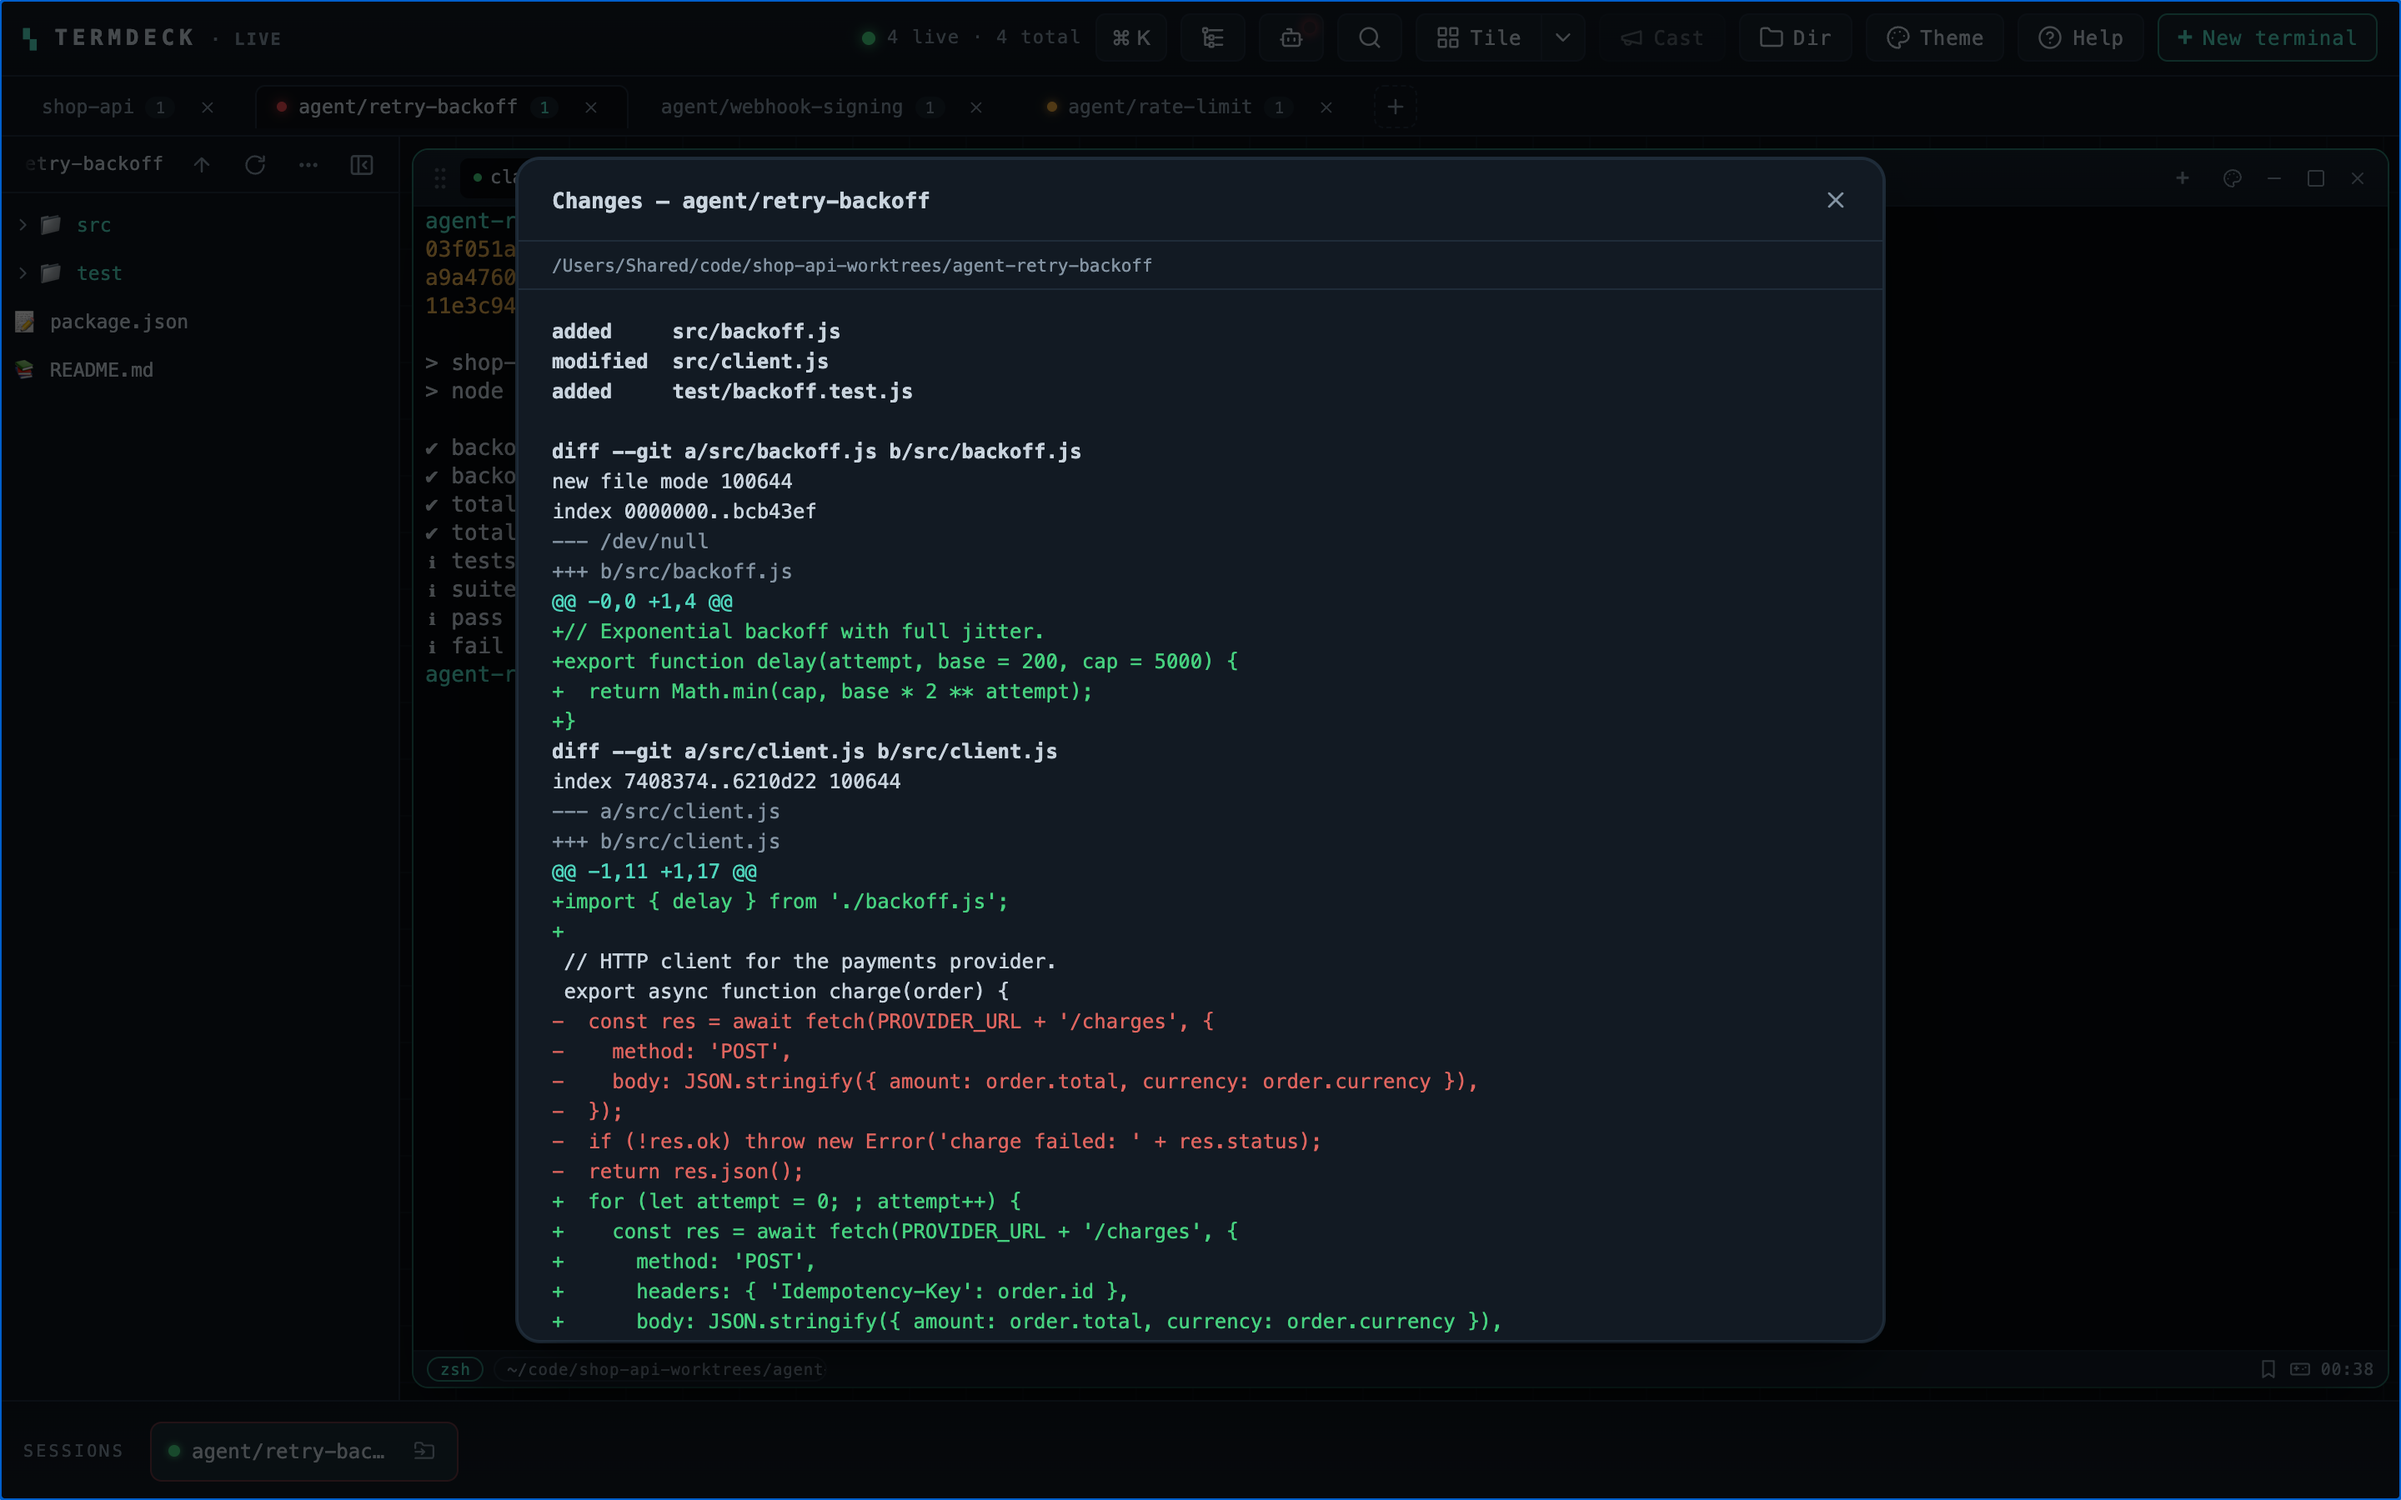
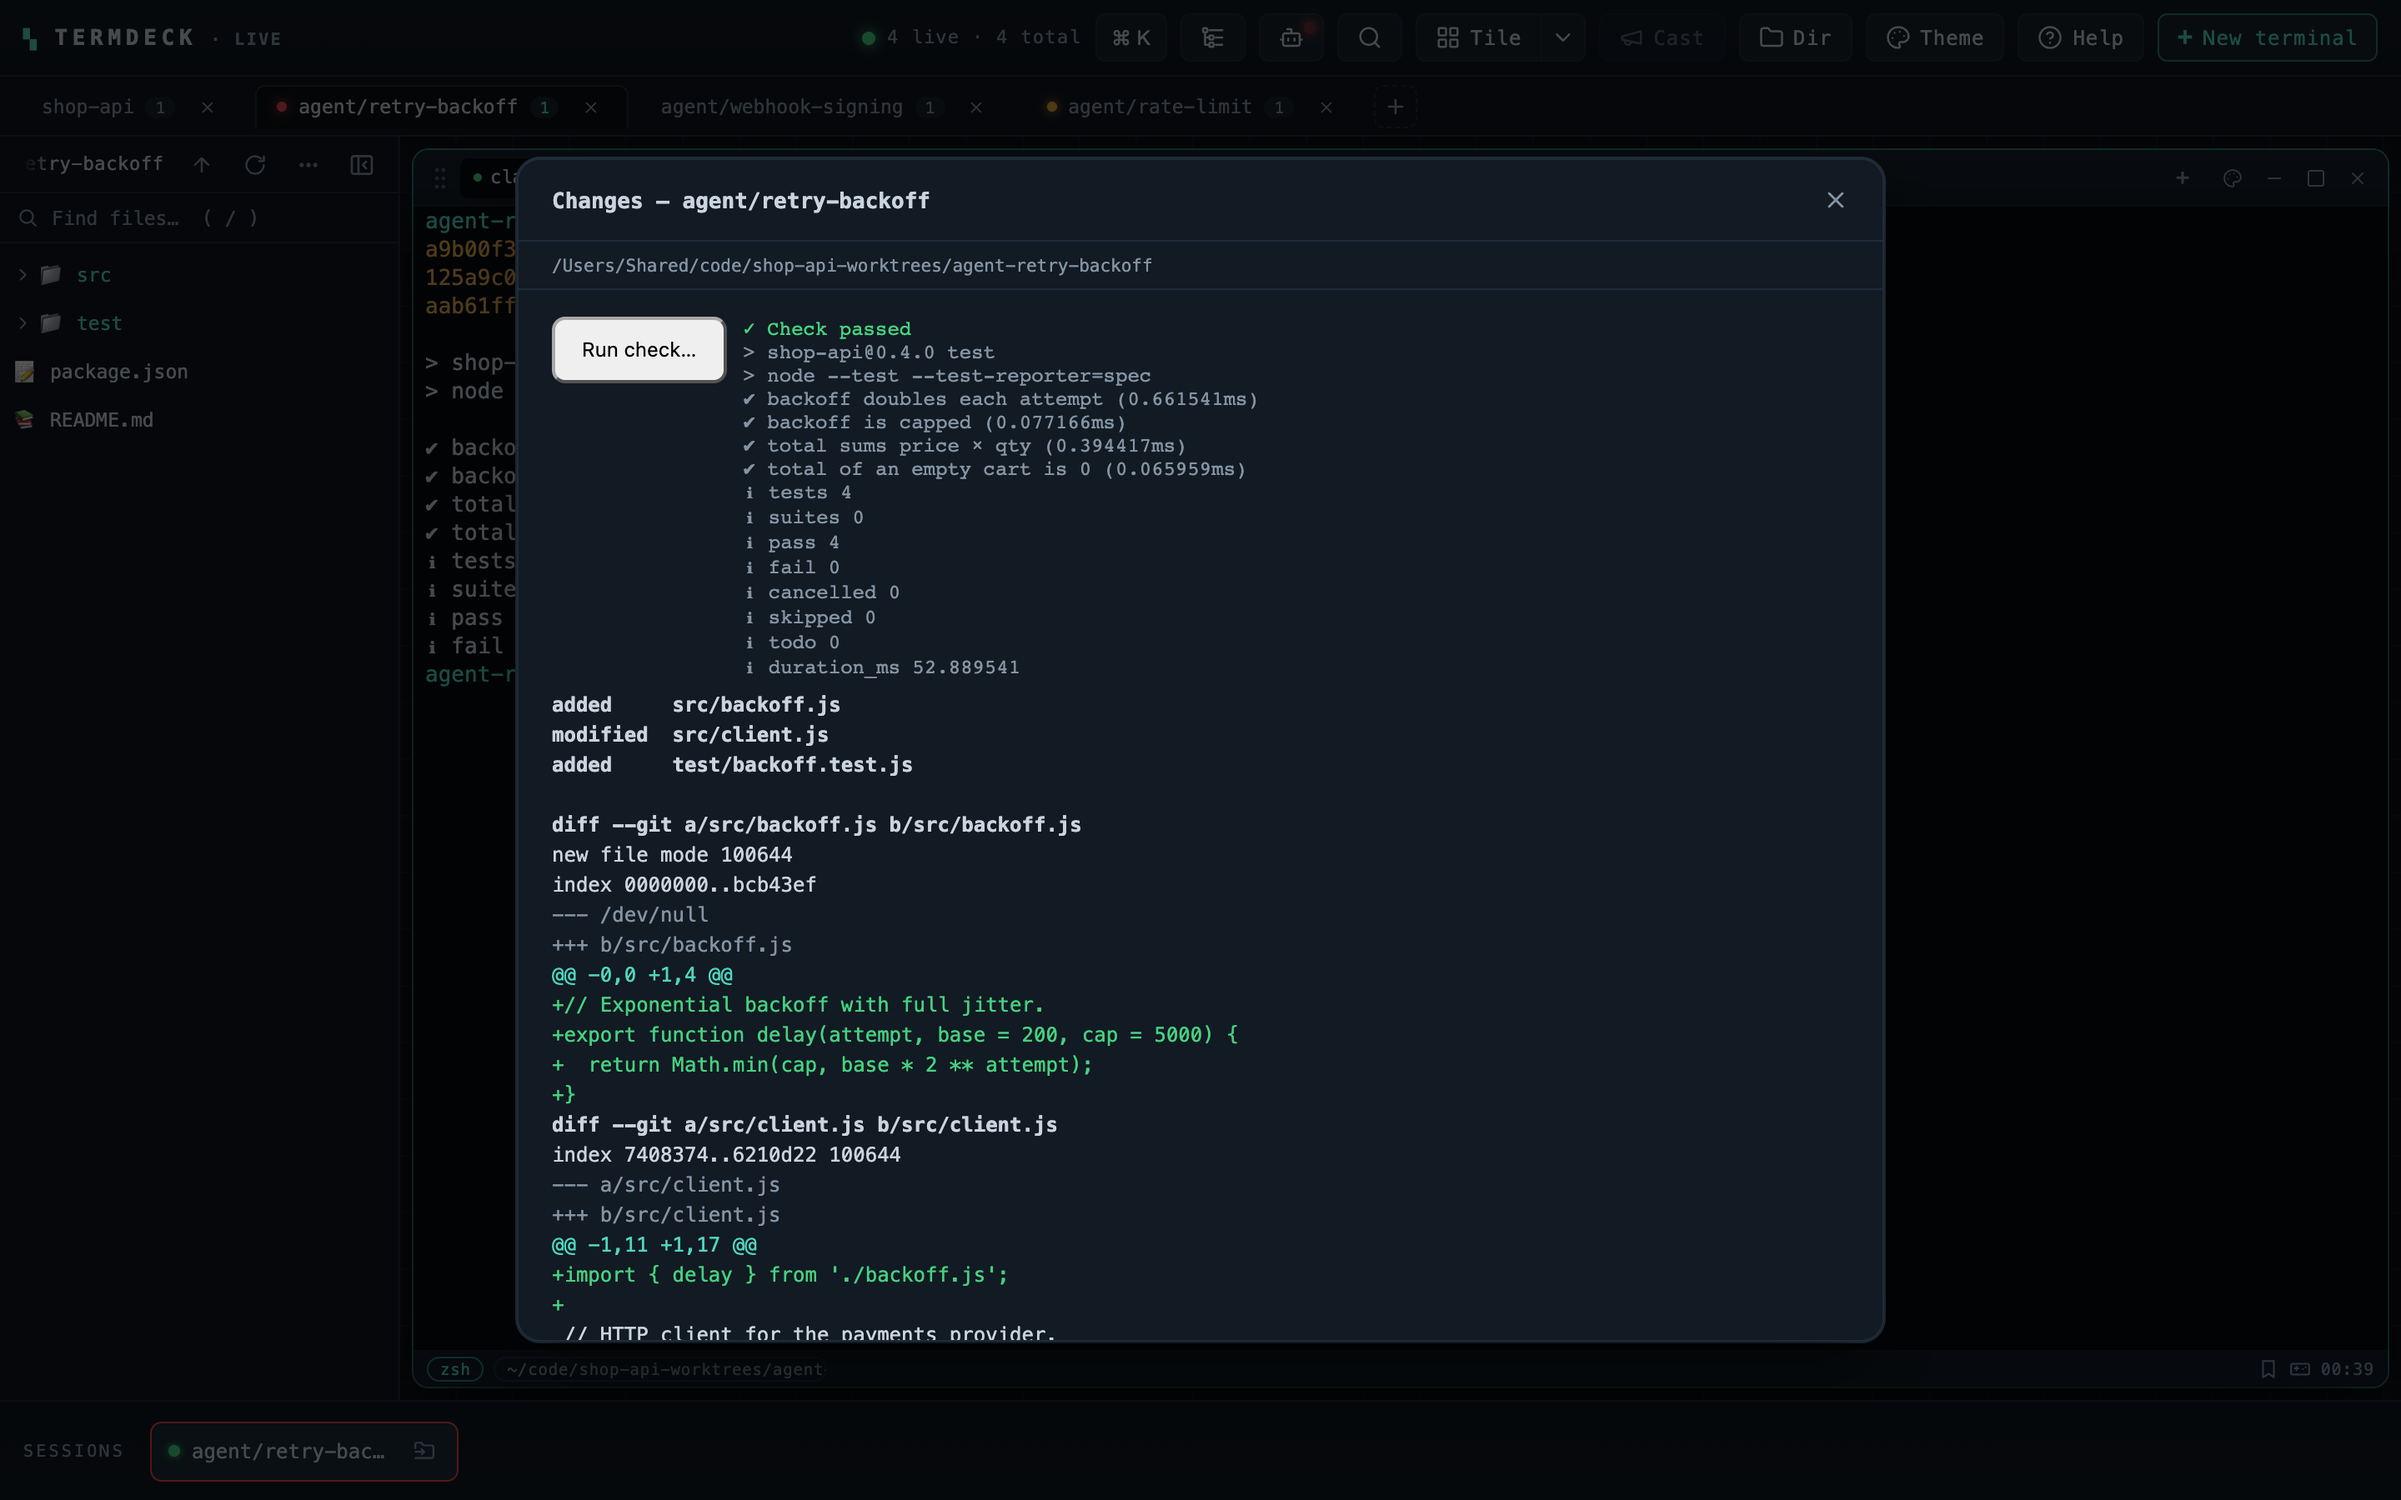
docs: describe Run check and risky-file flags; new review screenshot (#257)

diff --git a/docs/index.html b/docs/index.html
@@ -291,7 +291,7 @@
     <div class="card"><span class="ico"><svg viewBox="0 0 24 24"><circle cx="6" cy="6" r="2"/><circle cx="6" cy="18" r="2"/><circle cx="18" cy="8" r="2"/><path d="M6 8v8"/><path d="M18 10c0 4-6 3-12 6"/></svg></span><h3>A git worktree per agent</h3><p>Each agent task is cut into its own worktree and opens as its own project tab — three agents working at once, zero overwriting. An orange dot warns when two of them touch the same file.</p></div>
     <div class="card"><span class="ico"><svg viewBox="0 0 24 24"><path d="M12 3a6 6 0 0 0-6 6c0 5-2 6-2 6h16s-2-1-2-6a6 6 0 0 0-6-6z"/><path d="M10 19a2 2 0 0 0 4 0"/></svg></span><h3>Know who needs you</h3><p>A working agent pulses green on its tab and dock chip, a quiet one pulses amber; one blocked on an “Allow this tool?” prompt goes red — on the tab and its project, with the exact command and Approve / Deny buttons when hooks are on (nothing is answered without your click unless you opt in to a scoped rule — never for risky commands). Run <code>termdeck hooks install</code> to add the optional <a href="https://github.com/kiril6/termdeck/blob/master/docs/agent-hooks.md">Claude Code, Codex, Copilot or Gemini CLI hooks</a> and the state is exact, with the current tool and file; without them it falls back to output heuristics. termdeck never answers a prompt unless you click Approve / Deny, or opt in to a scoped rule.</p></div>
     <div class="card"><span class="ico"><svg viewBox="0 0 24 24"><path d="M3 6h18M3 12h18M3 18h12"/></svg></span><h3>One queue for the fleet</h3><p>A single popover lists every agent tab across all projects, ranked needs approval → waiting → working. Click a row to jump to it — token totals per agent and project, as the agent reports them (Claude Code, Codex).</p></div>
-    <div class="card"><span class="ico"><svg viewBox="0 0 24 24"><path d="M7 4h7l5 5v11H7z"/><path d="M14 4v5h5"/><path d="M10 14h6M10 17h4"/></svg></span><h3>Review, then land it</h3><p>Read-only diff of a worktree against the commit it was cut from — select a hunk and send it, with its file and line range, to an agent tab (typed, never run) — then merge it or open a PR and clean up the worktree, without leaving termdeck. Nothing is deleted without your confirm.</p></div>
+    <div class="card"><span class="ico"><svg viewBox="0 0 24 24"><path d="M7 4h7l5 5v11H7z"/><path d="M14 4v5h5"/><path d="M10 14h6M10 17h4"/></svg></span><h3>Review, then land it</h3><p>Read-only diff of a worktree against the commit it was cut from, with a one-click run of your test command beside it and lockfiles, CI config and secrets flagged — select a hunk and send it, with its file and line range, to an agent tab (typed, never run) — then merge it or open a PR and clean up the worktree, without leaving termdeck. Nothing is deleted without your confirm.</p></div>
     <div class="card"><span class="ico"><svg viewBox="0 0 24 24"><path d="M12 3l7 3v5c0 4.5-3 7.5-7 9-4-1.5-7-4.5-7-9V6z"/><path d="M9 12l2 2 4-4"/></svg></span><h3>Private by default</h3><p>Runs on your machine. No cloud, no telemetry, no API keys — your agents’ output never leaves localhost. Optional session logs for an audit trail.</p></div>
   </div>
 

diff --git a/tools/capture/shots.js b/tools/capture/shots.js
@@ -18,6 +18,11 @@ const { prepare, clearToasts } = require('./scene');
   await sleep(400);
   await palette(page, 'Review agent changes');
   await sleep(1500);
+  await page.getByRole('button', { name: 'Run check…' }).click();   // show a finished check next to the diff
+  await page.getByPlaceholder('npm test').fill('npm test');
+  await page.getByRole('button', { name: 'Run', exact: true }).click();
+  await page.locator('pre[role=status]').filter({ hasText: /Check (passed|failed)/ }).waitFor({ timeout: 60000 });
+  await sleep(500);
   await page.screenshot({ path: path.join(OUT, 'review-changes.png') });
   await page.keyboard.press('Escape');
   await sleep(400);

diff --git a/README.md b/README.md
@@ -71,9 +71,9 @@ termdeck uses tmux under the hood when it's installed, so you keep tmux's durabi
 
 **3. Unblock.** With the optional [agent hooks](docs/agent-hooks.md) (small scripts your agent CLI runs to report what it's doing; `termdeck hooks install` sets them up and asks first), the queue shows the exact command an agent wants to run with **Approve / Deny** buttons. termdeck never answers on its own — only when you click, or through an allow-rule you created yourself (a saved pattern such as `npm test` that may run without asking).
 
-**4. Review.** *Review agent changes…* shows a read-only diff of everything the agent changed since its branch was cut — committed and uncommitted work in one view.
+**4. Review.** *Review agent changes…* shows a read-only diff of everything the agent changed since its branch was cut — committed and uncommitted work in one view. *Run check…* runs your test command in the worktree and shows pass or fail next to the diff, and files that run code or carry secrets (lockfiles, CI config, `.env`) are flagged for a closer look.
 
-![Read-only diff of an agent's worktree: files added and modified, then the unified diff](https://raw.githubusercontent.com/kiril6/termdeck/master/docs/screenshots/review-changes.png)
+![Read-only diff of an agent's worktree: a passing check above the files added and modified, then the unified diff](https://raw.githubusercontent.com/kiril6/termdeck/master/docs/screenshots/review-changes.png)
 
 **5. Land.** *Finish agent task…* merges the branch or opens a pull request, optionally after a check like `npm test` that must pass first. Each option says why when it isn't available. Removing the worktree is a separate opt-in, and git still refuses to delete unmerged work.
 
@@ -196,7 +196,7 @@ Set via environment variable; `--port`, `--host` and `--no-open` also exist as f
 | `TD_BUFFER` | `1000000` | Output replayed on reconnect, per terminal (bytes). |
 | `TD_MAX_PANELS` | `64` | Maximum live terminals on the server. Never blocks reattaching. |
 | `TD_EDITOR` | `code` | Executable for the file tree's *Open in editor*. |
-| `TD_CHECK_TIMEOUT` | `600` | Seconds the *Finish agent task* check may run before landing is blocked. |
+| `TD_CHECK_TIMEOUT` | `600` | Seconds a check may run: in *Finish agent task* (landing is blocked after that) and in *Run check…* in the review view. |
 | `TD_LOG_DIR` | *(none)* | Write session logs (and the approval audit log) here. Off by default. |
 | `TD_ALLOWED_HOSTS` | *(none)* | Extra exact hostnames for a reverse proxy (e.g. `tailscale serve`). Switches to a per-start access token. |
 | `TD_NOTIFY_URL` | *(none)* | Webhook POSTed when an agent needs you (ntfy-ready). Also `TD_NOTIFY_EVENTS` (default `permission_request`), `TD_NOTIFY_DETAIL=1` (include the command). See [remote access](docs/remote-access.md#phone-notifications). |
